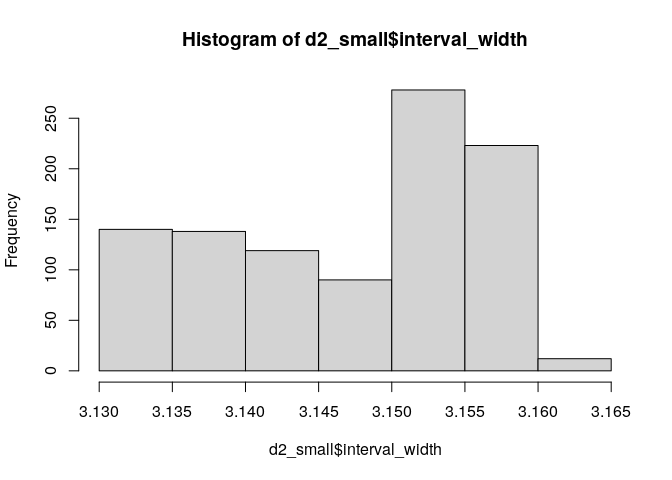
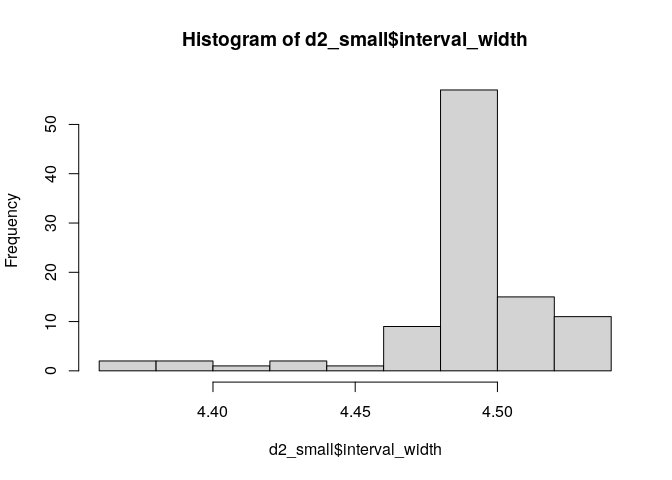
updated simple analysis

diff --git a/code/simple.md b/code/simple.md
@@ -27,7 +27,8 @@ then hold out the 1000 test set subjects, which are randomly chosen from
 the 101,000.
 
 The remaining 100,000 constitute the training set. We do CV+ (5-fold)
-with them, then construct prediction intervals for the predicted values.
+with them, then construct prediction intervals for the predicted values
+for the test set subjects.
 
 We also do an analysis with exactly 10,000 training set subjects. That
 is, we do CV+, 5-fold, with the 10,000 subjects before constructing
@@ -35,8 +36,10 @@ intervals for the test set.
 
 ``` r
 set.seed(2023-02-16)
-
-n <- 101000
+#n_test <- 1000
+n_test <- 100
+n_training <- 10000
+n <- n_test + n_training
 x <- rnorm(n = n)
 b <- 10
 epsilon <- rnorm(n = n)
@@ -51,19 +54,20 @@ We now sample 1000 test subjects.
 
 ``` r
 library(magrittr)
-test_ids <- sample(x = dat_all$id, size = 1000)
+test_ids <- sample(x = dat_all$id, size = n_test)
 dat_test <- dat_all %>%
               dplyr::filter(id %in% test_ids)
 dat_training_pre <- dat_all %>%
                   dplyr::filter(!(id %in% test_ids))
 ```
 
-We then partition the 100,000 training set samples into five subsets of
-20,000 each.
+We then partition the 10,000 training set samples into five subsets of
+2,000 each.
 
 ``` r
-training_ids_shuffled <- sample(x = dat_training_pre$id, size = 100000)
-folds <- cut(seq(1, 100000), breaks=5, labels=FALSE)
+n_folds <- 5
+training_ids_shuffled <- sample(x = dat_training_pre$id, size = n_training)
+folds <- cut(seq(1, n_training), breaks=n_folds, labels=FALSE)
 dat_training <- tibble::tibble(id = training_ids_shuffled, fold = folds) %>%
                   dplyr::left_join(dat_training_pre, by = "id") %>%
                   dplyr::arrange(id)
@@ -74,7 +78,7 @@ We then regress y on x with 5-fold CV.
 ``` r
 predvals <- list()
 lm_out_list <- list()
-for (i in 1:5){
+for (i in 1:n_folds){
   dd <- dat_training %>%
           dplyr::filter(fold != i)
   lm_out <- lm(y ~ x, data = dd)
@@ -98,7 +102,7 @@ predicted values per test set subject.
 alpha <- 0.1
 # construct the five intervals for each test set subject
 test_fitted <- list()
-for (i in 1:5){
+for (i in 1:n_folds){
     design_matrix <- cbind(1, dat_test$x)
     test_fitted[[i]] <- dat_test %>% 
                             dplyr::mutate(fitted = as.vector(design_matrix %*% lm_out_list[[i]]$coefficients))
@@ -116,16 +120,16 @@ qplus <- function(x, alpha = 0.1){
 tf_tib <- tibble::tibble(test_fitted[[1]]$fitted, test_fitted[[2]]$fitted, test_fitted[[3]]$fitted, test_fitted[[4]]$fitted, test_fitted[[5]]$fitted)
 
 
-upper <- numeric(length = 1000)
-lower <- numeric(length = 1000)
-for (test_index in 1:1000){
+upper <- numeric(length = n_test)
+lower <- numeric(length = n_test)
+for (test_index in 1:n_test){
     indices <- pred$fold
     mu_hat <- tf_tib[test_index, indices] %>% as.numeric()
     rr <- pred$absolute_residual
     sum_vec <- mu_hat + rr 
     diff_vec <- mu_hat - rr
     upper[test_index] <- qplus(sum_vec, alpha)    
-    lower[test_index] <- - qplus( - diff_vec, alpha)
+    lower[test_index] <- - qplus( - diff_vec, alpha) # note negative signs
 }
 d2 <- dat_test %>%
         dplyr::mutate(lower = lower, 
@@ -144,7 +148,7 @@ d2 %>%
     # A tibble: 1 × 1
       coverage
          <dbl>
-    1    0.893
+    1     0.88
 
 ``` r
 hist(d2$interval_width)
@@ -154,15 +158,15 @@ hist(d2$interval_width)
 
 ## Small training set analysis
 
-The goal here is to use only 1000 subjects - 5 folds of 200 each - in
-CV+. I’ll use the same 1000 test set subjects.
+The goal here is to use only 100 subjects - 5 folds of 20 each - in CV+.
+I’ll use the same 1000 test set subjects.
 
 ``` r
 dat_tr_list <- list()
-for (i in 1:5){
+for (i in 1:n_folds){
     dtr <- dat_training %>%
         dplyr::filter(fold == i)
-    ids_to_keep <- sample(dtr$id, size = 200)
+    ids_to_keep <- sample(dtr$id, size = 20)
     dat_tr_list[[i]] <- dtr %>%
                             dplyr::filter(id %in% ids_to_keep)    
 }
@@ -172,7 +176,7 @@ dat_tr <- dat_tr_list %>% dplyr::bind_rows()
 ``` r
 predvals <- list()
 lm_out_list <- list()
-for (i in 1:5){
+for (i in 1:n_folds){
   dd <- dat_tr %>%
           dplyr::filter(fold != i)
   lm_out <- lm(y ~ x, data = dd)
@@ -190,17 +194,21 @@ pred <- predvals %>%
           dplyr::mutate(absolute_residual = abs(residual))
 # construct the five intervals for each test set subject
 test_fitted <- list()
-for (i in 1:5){
+for (i in 1:n_folds){
     design_matrix <- cbind(1, dat_test$x)
     test_fitted[[i]] <- dat_test %>% 
                             dplyr::mutate(fitted = as.vector(design_matrix %*% lm_out_list[[i]]$coefficients))
 }
-tf_tib <- tibble::tibble(test_fitted[[1]]$fitted, test_fitted[[2]]$fitted, test_fitted[[3]]$fitted, test_fitted[[4]]$fitted, test_fitted[[5]]$fitted)
+tf_tib <- tibble::tibble(test_fitted[[1]]$fitted, 
+                        test_fitted[[2]]$fitted, 
+                        test_fitted[[3]]$fitted, 
+                        test_fitted[[4]]$fitted, 
+                        test_fitted[[5]]$fitted)
 
 #calculate interval bounds
-upper <- numeric(length = 1000)
-lower <- numeric(length = 1000)
-for (test_index in 1:1000){
+upper <- numeric(length = n_test)
+lower <- numeric(length = n_test)
+for (test_index in 1:n_test){
     indices <- pred$fold
     mu_hat <- tf_tib[test_index, indices] %>% as.numeric()
     rr <- pred$absolute_residual
@@ -226,7 +234,7 @@ d2_small %>%
     # A tibble: 1 × 1
       coverage
          <dbl>
-    1    0.875
+    1     0.97
 
 ``` r
 hist(d2_small$interval_width)
